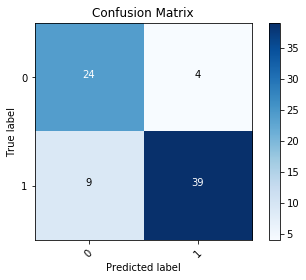
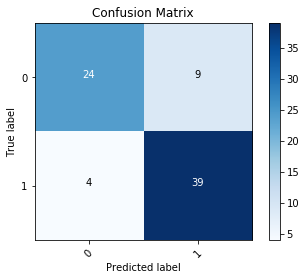
switch inputs in confusion_matrix function

Changed region(s): [[0.1176, 0.0857, 0.8235, 0.8571]]

diff --git a/README.md b/README.md
@@ -251,13 +251,13 @@ In the cells below, import the `confusion_matrix()` function, use it to create a
 ```python
 from sklearn.metrics import confusion_matrix
 
-cnf_matrix = confusion_matrix(y_hat_test, y_test)
+cnf_matrix = confusion_matrix(y_test, y_hat_test)
 print('Confusion Matrix:\n',cnf_matrix)
 ```
 
     Confusion Matrix:
-     [[24  4]
-     [ 9 39]]
+     [[24  9]
+     [ 4 39]]
 
 
 ## Creating a Nice Visual
@@ -298,7 +298,7 @@ plt.colorbar()
 
 
 
-    <matplotlib.colorbar.Colorbar at 0x1a1d67dcc0>
+    <matplotlib.colorbar.Colorbar at 0x1a161f3470>
 
 
 
@@ -394,8 +394,8 @@ plt.show()
 ```
 
     Normalized confusion matrix
-    [[0.85714286 0.14285714]
-     [0.1875     0.8125    ]]
+    [[0.72727273 0.27272727]
+     [0.09302326 0.90697674]]
 
 
 
